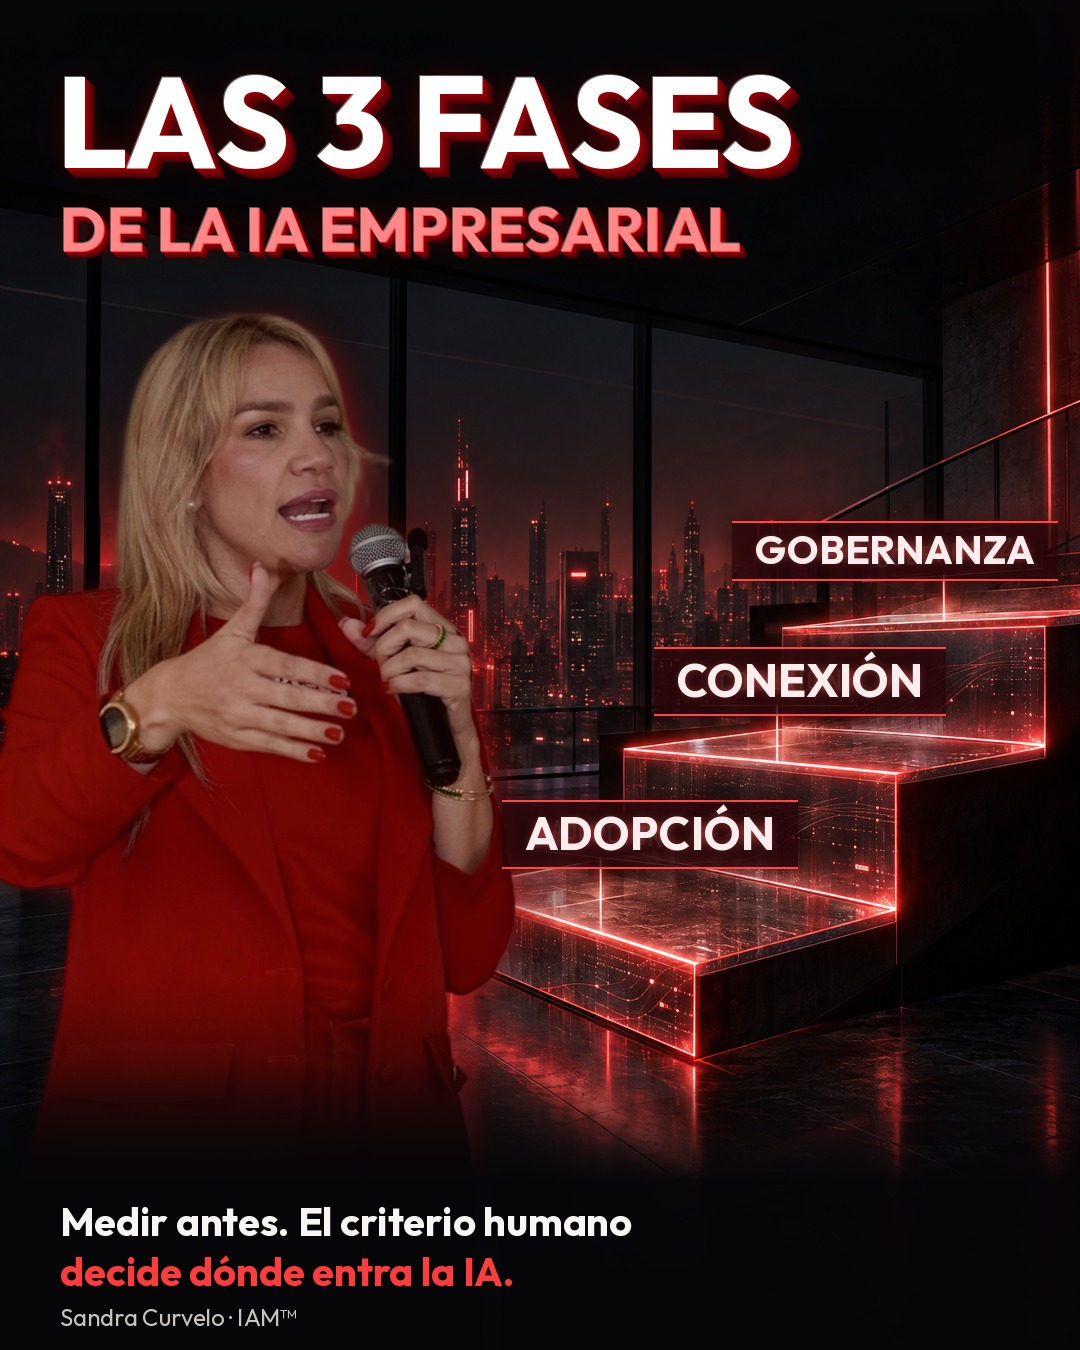
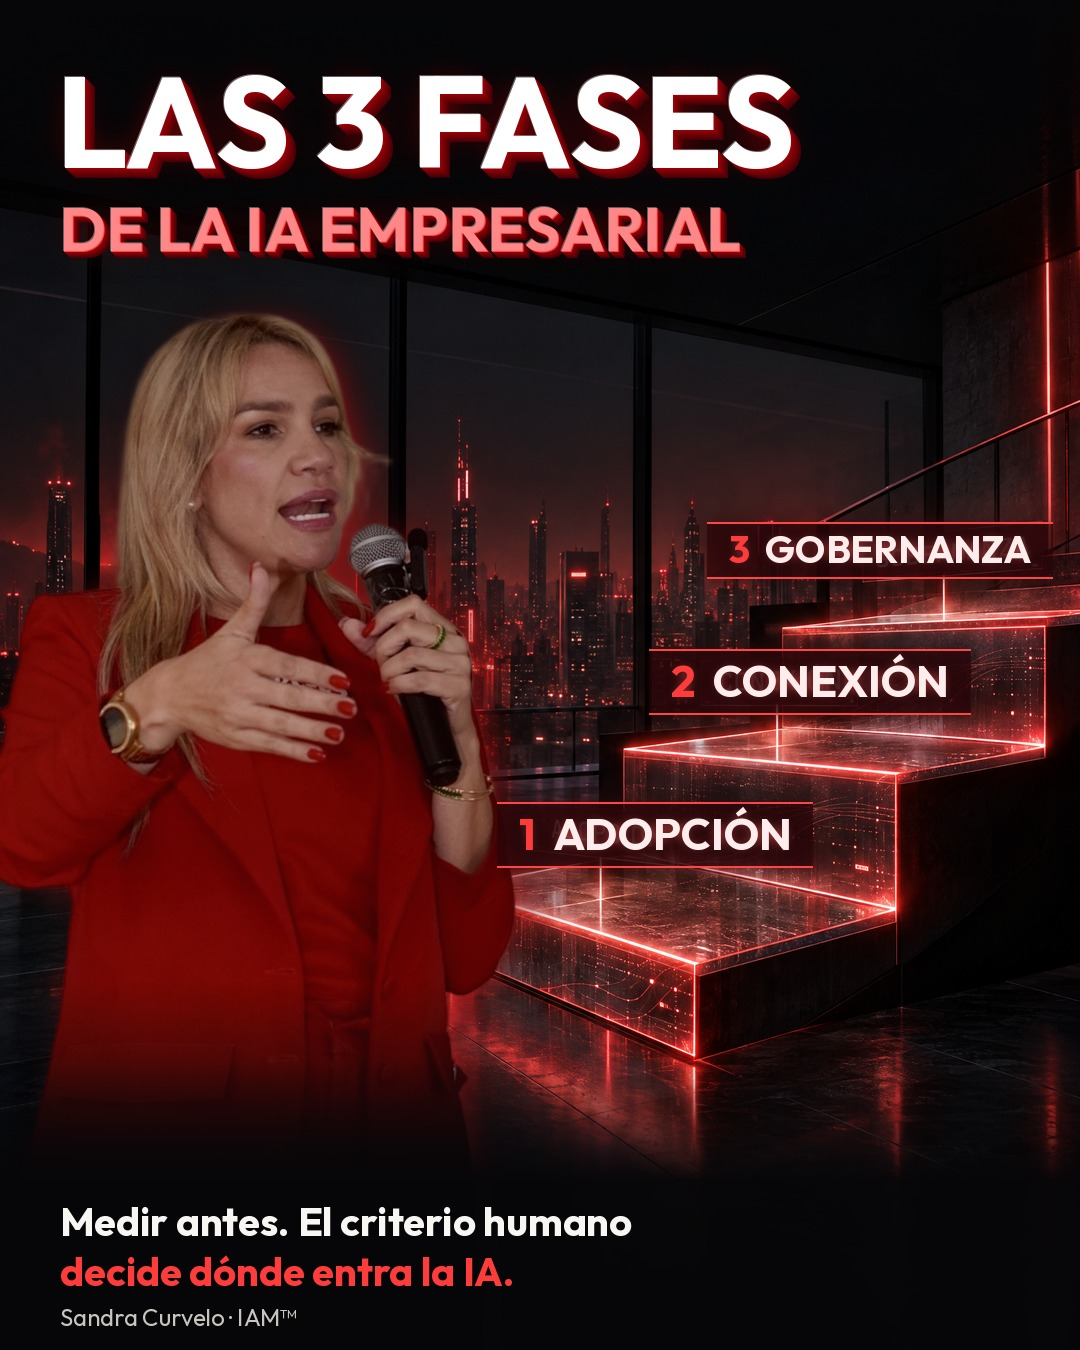
Imagen lun-23-am: fases numeradas 1, 2, 3
Claude-Session: https://claude.ai/code/session_01Tmne2aLNP1UGqMwJXFqoP3

Changed region(s): [[0.6417, 0.3733, 0.9778, 0.4356], [0.6111, 0.4667, 0.9167, 0.5289], [0.4583, 0.5911, 0.7639, 0.6533]]

diff --git a/contenido-linkedin/imagenes/escalera-lun-23.py b/contenido-linkedin/imagenes/escalera-lun-23.py
@@ -33,21 +33,23 @@ for y in range(H):
     dy.line([(0,y),(W,y)],fill=v)
 ov=Image.new("RGBA",(W,H),(6,6,8,255)); ov.putalpha(my); c=Image.alpha_composite(c,ov)
 
-def holo(cx,cy,t,size):
+def holo(cx,cy,t,size,n=''):
     global c
-    f=B(size); tw=ImageDraw.Draw(c).textlength(t,font=f)
+    f=B(size); pre=n+'  ' if n else ''; pw=ImageDraw.Draw(c).textlength(pre,font=f); tw=ImageDraw.Draw(c).textlength(pre+t,font=f)
     x0,y0,x1,y1=int(cx-tw/2-22),int(cy-size*0.7),int(cx+tw/2+22),int(cy+size*0.75)
     lay=Image.new("RGBA",(W,H),(0,0,0,0)); ld=ImageDraw.Draw(lay)
     ld.rectangle((x0,y0,x1,y1),fill=(40,4,8,170))
     ld.line([(x0,y0),(x1,y0)],fill=(255,70,70,255),width=2); ld.line([(x0,y1),(x1,y1)],fill=(255,70,70,255),width=2)
     gl=lay.filter(ImageFilter.GaussianBlur(10)); c=Image.alpha_composite(c,gl); c=Image.alpha_composite(c,lay)
     tl=Image.new("RGBA",(W,H),(0,0,0,0)); td=ImageDraw.Draw(tl)
-    td.text((cx-tw/2,cy-size*0.62),t,font=f,fill=(255,90,90,255))
+    td.text((cx-tw/2,cy-size*0.62),pre+t,font=f,fill=(255,90,90,255))
     c=Image.alpha_composite(c,tl.filter(ImageFilter.GaussianBlur(6)))
-    td2=ImageDraw.Draw(c); td2.text((cx-tw/2,cy-size*0.62),t,font=f,fill=(255,236,236))
-holo(650,833,"ADOPCIÓN",46)
-holo(800,680,"CONEXIÓN",46)
-holo(895,549,"GOBERNANZA",40)
+    td2=ImageDraw.Draw(c)
+    if n: td2.text((cx-tw/2,cy-size*0.62),n,font=f,fill=(255,60,60))
+    td2.text((cx-tw/2+pw,cy-size*0.62),t,font=f,fill=(255,236,236))
+holo(655,833,"ADOPCIÓN",44,"1")
+holo(810,680,"CONEXIÓN",44,"2")
+holo(880,549,"GOBERNANZA",38,"3")
 d=ImageDraw.Draw(c)
 WH=(248,246,242); RED=(255,60,60)
 
